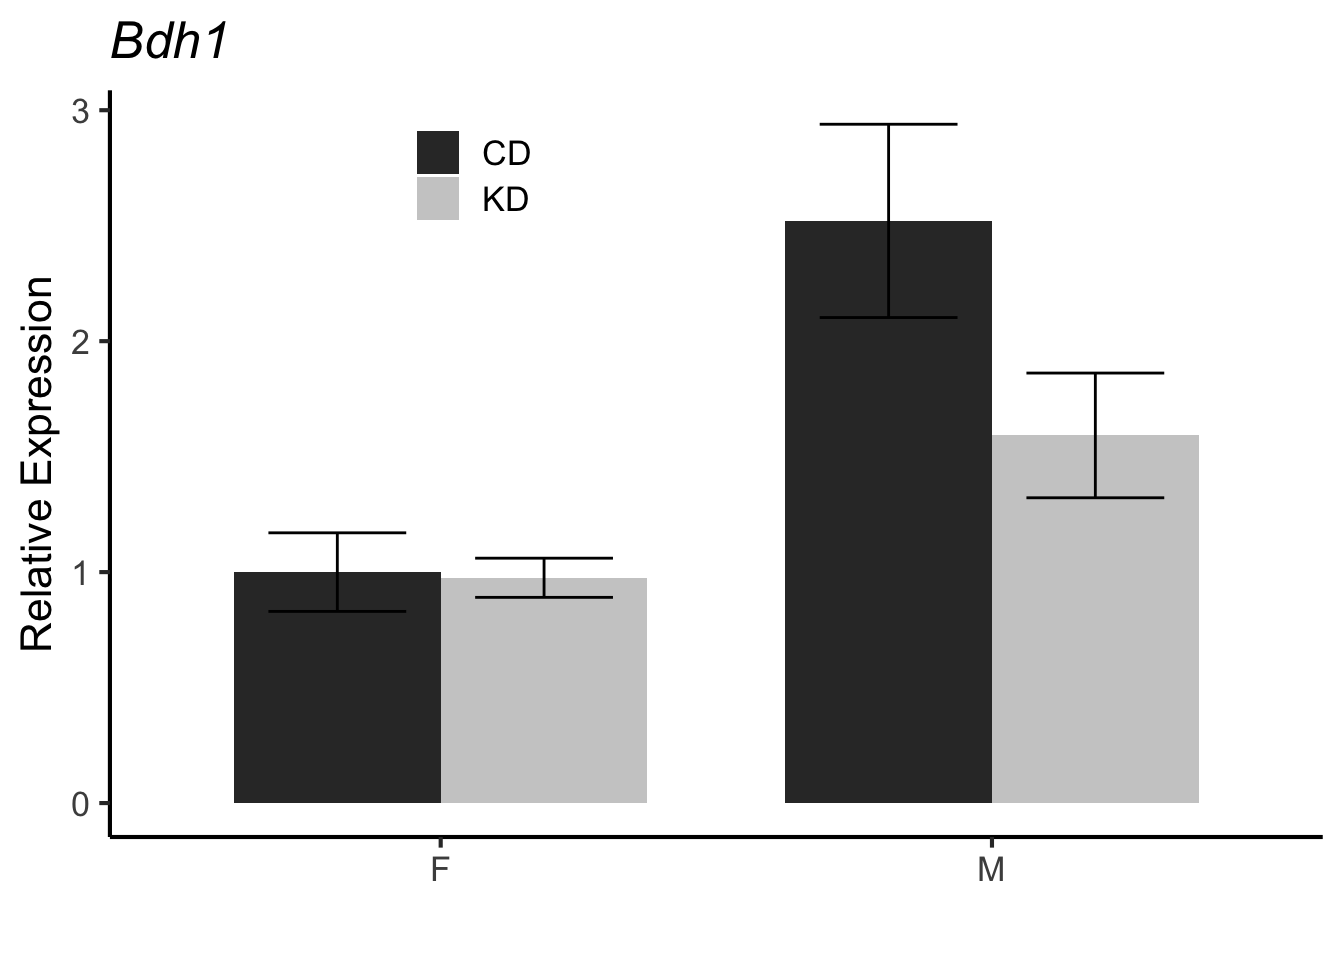
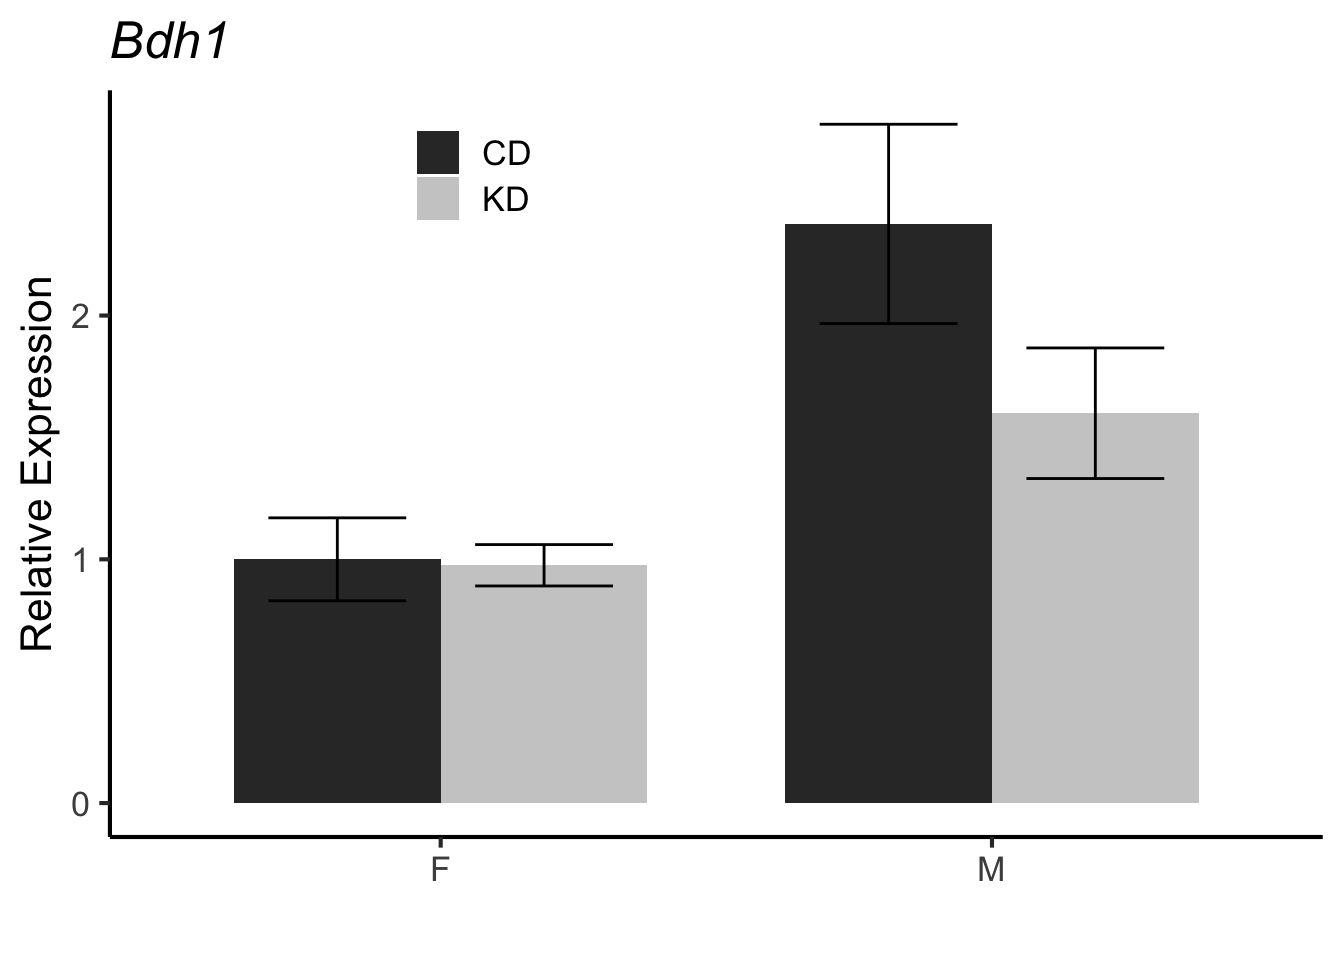
Updated filtering out the outliers

diff --git a/Mouse Data/AJ Ketogenic Diet/Muscle qPCR.html b/Mouse Data/AJ Ketogenic Diet/Muscle qPCR.html
@@ -137,7 +137,7 @@ code span.wa { color: #60a0b0; font-weight: bold; font-style: italic; } /* Warni
 
 </header>
 
-<p>This script was most recently run on Mon Jan 15 19:33:43 2024 and can be found in /Users/davebrid/Documents/GitHub/TissueSpecificTscKnockouts/Mouse Data/AJ Ketogenic Diet.</p>
+<p>This script was most recently run on Mon Jan 15 19:45:09 2024 and can be found in /Users/davebrid/Documents/GitHub/TissueSpecificTscKnockouts/Mouse Data/AJ Ketogenic Diet.</p>
 <section id="purpose" class="level1">
 <h1>Purpose</h1>
 <p>Analyse mRNA expression from AJ Muscles</p>
@@ -165,7 +165,7 @@ code span.wa { color: #60a0b0; font-weight: bold; font-style: italic; } /* Warni
 <span id="cb1-14"><a href="#cb1-14" aria-hidden="true" tabindex="-1"></a>mapped.run.data <span class="ot">&lt;-</span></span>
 <span id="cb1-15"><a href="#cb1-15" aria-hidden="true" tabindex="-1"></a>  run.data <span class="sc">%&gt;%</span></span>
 <span id="cb1-16"><a href="#cb1-16" aria-hidden="true" tabindex="-1"></a>  <span class="fu">left_join</span>(mapping.data, <span class="at">by=</span><span class="st">"Mouse"</span>) <span class="sc">%&gt;%</span></span>
-<span id="cb1-17"><a href="#cb1-17" aria-hidden="true" tabindex="-1"></a>  <span class="fu">select</span>(Mouse,Diet,Cohort,Sex,Target,Cq,Well) <span class="sc">%&gt;%</span></span>
+<span id="cb1-17"><a href="#cb1-17" aria-hidden="true" tabindex="-1"></a>  <span class="fu">select</span>(Mouse,Diet,Cohort,Sex,Target,Cq,<span class="st">`</span><span class="at">Well Position</span><span class="st">`</span>) <span class="sc">%&gt;%</span></span>
 <span id="cb1-18"><a href="#cb1-18" aria-hidden="true" tabindex="-1"></a>  <span class="fu">mutate</span>(<span class="at">Diet =</span> <span class="fu">fct_recode</span>(Diet,<span class="st">"KD"</span><span class="ot">=</span><span class="st">"Ketogenic"</span>,</span>
 <span id="cb1-19"><a href="#cb1-19" aria-hidden="true" tabindex="-1"></a>                          <span class="st">"CD"</span><span class="ot">=</span><span class="st">"Control"</span>))</span></code><button title="Copy to Clipboard" class="code-copy-button"><i class="bi"></i></button></pre></div>
 </div>
@@ -301,8 +301,8 @@ code span.wa { color: #60a0b0; font-weight: bold; font-style: italic; } /* Warni
 </div>
 <div class="sourceCode cell-code" id="cb3"><pre class="sourceCode r code-with-copy"><code class="sourceCode r"><span id="cb3-1"><a href="#cb3-1" aria-hidden="true" tabindex="-1"></a><span class="co">#samples that are technical outliers</span></span>
 <span id="cb3-2"><a href="#cb3-2" aria-hidden="true" tabindex="-1"></a>mapped.run.data <span class="sc">%&gt;%</span></span>
-<span id="cb3-3"><a href="#cb3-3" aria-hidden="true" tabindex="-1"></a>   <span class="fu">filter</span>(Target<span class="sc">==</span><span class="st">"Bdh1"</span>,Mouse<span class="sc">==</span><span class="st">"4108"</span>) <span class="sc">%&gt;%</span></span>
-<span id="cb3-4"><a href="#cb3-4" aria-hidden="true" tabindex="-1"></a>   <span class="fu">select</span>(Target,Mouse,Cq,Well) <span class="sc">%&gt;%</span></span>
+<span id="cb3-3"><a href="#cb3-3" aria-hidden="true" tabindex="-1"></a>   <span class="fu">filter</span>(Target<span class="sc">==</span><span class="st">"Bdh1"</span>,Mouse<span class="sc">==</span><span class="st">"1753"</span>) <span class="sc">%&gt;%</span></span>
+<span id="cb3-4"><a href="#cb3-4" aria-hidden="true" tabindex="-1"></a>   <span class="fu">select</span>(Target,Mouse,Cq,<span class="st">`</span><span class="at">Well Position</span><span class="st">`</span>) <span class="sc">%&gt;%</span></span>
 <span id="cb3-5"><a href="#cb3-5" aria-hidden="true" tabindex="-1"></a>  kable</span></code><button title="Copy to Clipboard" class="code-copy-button"><i class="bi"></i></button></pre></div>
 <div class="cell-output-display">
 <table class="table table-sm table-striped">
@@ -311,94 +311,42 @@ code span.wa { color: #60a0b0; font-weight: bold; font-style: italic; } /* Warni
 <th style="text-align: left;">Target</th>
 <th style="text-align: left;">Mouse</th>
 <th style="text-align: left;">Cq</th>
-<th style="text-align: right;">Well</th>
+<th style="text-align: left;">Well Position</th>
 </tr>
 </thead>
 <tbody>
 <tr class="odd">
 <td style="text-align: left;">Bdh1</td>
-<td style="text-align: left;">4108</td>
-<td style="text-align: left;">28.734764834730484</td>
-<td style="text-align: right;">6</td>
+<td style="text-align: left;">1753</td>
+<td style="text-align: left;">31.77053828853247</td>
+<td style="text-align: left;">A1</td>
 </tr>
 <tr class="even">
 <td style="text-align: left;">Bdh1</td>
-<td style="text-align: left;">4108</td>
-<td style="text-align: left;">28.734764834730484</td>
-<td style="text-align: right;">6</td>
+<td style="text-align: left;">1753</td>
+<td style="text-align: left;">33.43067393781932</td>
+<td style="text-align: left;">A7</td>
 </tr>
 <tr class="odd">
 <td style="text-align: left;">Bdh1</td>
-<td style="text-align: left;">4108</td>
-<td style="text-align: left;">29.10279941135176</td>
-<td style="text-align: right;">12</td>
-</tr>
-<tr class="even">
-<td style="text-align: left;">Bdh1</td>
-<td style="text-align: left;">4108</td>
-<td style="text-align: left;">29.10279941135176</td>
-<td style="text-align: right;">12</td>
-</tr>
-<tr class="odd">
-<td style="text-align: left;">Bdh1</td>
-<td style="text-align: left;">4108</td>
-<td style="text-align: left;">28.92018585386854</td>
-<td style="text-align: right;">18</td>
-</tr>
-<tr class="even">
-<td style="text-align: left;">Bdh1</td>
-<td style="text-align: left;">4108</td>
-<td style="text-align: left;">28.92018585386854</td>
-<td style="text-align: right;">18</td>
-</tr>
-<tr class="odd">
-<td style="text-align: left;">Bdh1</td>
-<td style="text-align: left;">4108</td>
-<td style="text-align: left;">30.068173883007034</td>
-<td style="text-align: right;">99</td>
-</tr>
-<tr class="even">
-<td style="text-align: left;">Bdh1</td>
-<td style="text-align: left;">4108</td>
-<td style="text-align: left;">30.068173883007034</td>
-<td style="text-align: right;">99</td>
-</tr>
-<tr class="odd">
-<td style="text-align: left;">Bdh1</td>
-<td style="text-align: left;">4108</td>
-<td style="text-align: left;">30.77486044399233</td>
-<td style="text-align: right;">105</td>
-</tr>
-<tr class="even">
-<td style="text-align: left;">Bdh1</td>
-<td style="text-align: left;">4108</td>
-<td style="text-align: left;">30.77486044399233</td>
-<td style="text-align: right;">105</td>
-</tr>
-<tr class="odd">
-<td style="text-align: left;">Bdh1</td>
-<td style="text-align: left;">4108</td>
-<td style="text-align: left;">29.958249917786922</td>
-<td style="text-align: right;">111</td>
-</tr>
-<tr class="even">
-<td style="text-align: left;">Bdh1</td>
-<td style="text-align: left;">4108</td>
-<td style="text-align: left;">29.958249917786922</td>
-<td style="text-align: right;">111</td>
+<td style="text-align: left;">1753</td>
+<td style="text-align: left;">31.875779261704572</td>
+<td style="text-align: left;">A13</td>
 </tr>
 </tbody>
 </table>
 </div>
-<div class="sourceCode cell-code" id="cb4"><pre class="sourceCode r code-with-copy"><code class="sourceCode r"><span id="cb4-1"><a href="#cb4-1" aria-hidden="true" tabindex="-1"></a>run.data.clean <span class="ot">&lt;-</span> mapped.run.data</span>
-<span id="cb4-2"><a href="#cb4-2" aria-hidden="true" tabindex="-1"></a></span>
-<span id="cb4-3"><a href="#cb4-3" aria-hidden="true" tabindex="-1"></a>qpcr.data <span class="ot">&lt;-</span></span>
-<span id="cb4-4"><a href="#cb4-4" aria-hidden="true" tabindex="-1"></a>  run.data.clean <span class="sc">%&gt;%</span></span>
-<span id="cb4-5"><a href="#cb4-5" aria-hidden="true" tabindex="-1"></a>  <span class="fu">select</span>(Diet,Cohort,Sex,Mouse,Target,Cq) <span class="sc">%&gt;%</span></span>
-<span id="cb4-6"><a href="#cb4-6" aria-hidden="true" tabindex="-1"></a>  <span class="fu">mutate</span>(<span class="at">Cq=</span><span class="fu">as.numeric</span>(Cq)) <span class="sc">%&gt;%</span></span>
-<span id="cb4-7"><a href="#cb4-7" aria-hidden="true" tabindex="-1"></a>  <span class="fu">group_by</span>(Diet,Cohort,Sex,Mouse,Target) <span class="sc">%&gt;%</span></span>
-<span id="cb4-8"><a href="#cb4-8" aria-hidden="true" tabindex="-1"></a>  <span class="fu">summarize</span>(<span class="at">Ct.mean =</span> <span class="fu">mean</span>(Cq,<span class="at">na.rm=</span>T),</span>
-<span id="cb4-9"><a href="#cb4-9" aria-hidden="true" tabindex="-1"></a>            <span class="at">Ct.range =</span> <span class="fu">max</span>(Cq,<span class="at">na.rm=</span>T)<span class="sc">-</span><span class="fu">min</span>(Cq,<span class="at">na.rm=</span>T))</span></code><button title="Copy to Clipboard" class="code-copy-button"><i class="bi"></i></button></pre></div>
+<div class="sourceCode cell-code" id="cb4"><pre class="sourceCode r code-with-copy"><code class="sourceCode r"><span id="cb4-1"><a href="#cb4-1" aria-hidden="true" tabindex="-1"></a>run.data.clean <span class="ot">&lt;-</span> mapped.run.data <span class="sc">%&gt;%</span></span>
+<span id="cb4-2"><a href="#cb4-2" aria-hidden="true" tabindex="-1"></a>  <span class="fu">filter</span>(<span class="sc">!</span>(Target<span class="sc">==</span><span class="st">"Bdh1"</span><span class="sc">&amp;</span><span class="st">`</span><span class="at">Well Position</span><span class="st">`</span><span class="sc">==</span><span class="st">"E13"</span>)) <span class="sc">%&gt;%</span></span>
+<span id="cb4-3"><a href="#cb4-3" aria-hidden="true" tabindex="-1"></a>  <span class="fu">filter</span>(<span class="sc">!</span>(Target<span class="sc">==</span><span class="st">"Bdh1"</span><span class="sc">&amp;</span><span class="st">`</span><span class="at">Well Position</span><span class="st">`</span><span class="sc">==</span><span class="st">"A7"</span>))</span>
+<span id="cb4-4"><a href="#cb4-4" aria-hidden="true" tabindex="-1"></a></span>
+<span id="cb4-5"><a href="#cb4-5" aria-hidden="true" tabindex="-1"></a>qpcr.data <span class="ot">&lt;-</span></span>
+<span id="cb4-6"><a href="#cb4-6" aria-hidden="true" tabindex="-1"></a>  run.data.clean <span class="sc">%&gt;%</span></span>
+<span id="cb4-7"><a href="#cb4-7" aria-hidden="true" tabindex="-1"></a>  <span class="fu">select</span>(Diet,Cohort,Sex,Mouse,Target,Cq) <span class="sc">%&gt;%</span></span>
+<span id="cb4-8"><a href="#cb4-8" aria-hidden="true" tabindex="-1"></a>  <span class="fu">mutate</span>(<span class="at">Cq=</span><span class="fu">as.numeric</span>(Cq)) <span class="sc">%&gt;%</span></span>
+<span id="cb4-9"><a href="#cb4-9" aria-hidden="true" tabindex="-1"></a>  <span class="fu">group_by</span>(Diet,Cohort,Sex,Mouse,Target) <span class="sc">%&gt;%</span></span>
+<span id="cb4-10"><a href="#cb4-10" aria-hidden="true" tabindex="-1"></a>  <span class="fu">summarize</span>(<span class="at">Ct.mean =</span> <span class="fu">mean</span>(Cq,<span class="at">na.rm=</span>T),</span>
+<span id="cb4-11"><a href="#cb4-11" aria-hidden="true" tabindex="-1"></a>            <span class="at">Ct.range =</span> <span class="fu">max</span>(Cq,<span class="at">na.rm=</span>T)<span class="sc">-</span><span class="fu">min</span>(Cq,<span class="at">na.rm=</span>T))</span></code><button title="Copy to Clipboard" class="code-copy-button"><i class="bi"></i></button></pre></div>
 </div>
 </section>
 <section id="normalization" class="level1">
@@ -447,15 +395,6 @@ code span.wa { color: #60a0b0; font-weight: bold; font-style: italic; } /* Warni
 </thead>
 <tbody>
 <tr class="odd">
-<td style="text-align: left;">CD</td>
-<td style="text-align: right;">2</td>
-<td style="text-align: left;">M</td>
-<td style="text-align: left;">1750</td>
-<td style="text-align: left;">Bdh1</td>
-<td style="text-align: right;">27.3</td>
-<td style="text-align: right;">2.80</td>
-</tr>
-<tr class="even">
 <td style="text-align: left;">KD</td>
 <td style="text-align: right;">1</td>
 <td style="text-align: left;">F</td>
@@ -464,7 +403,7 @@ code span.wa { color: #60a0b0; font-weight: bold; font-style: italic; } /* Warni
 <td style="text-align: right;">26.7</td>
 <td style="text-align: right;">2.09</td>
 </tr>
-<tr class="odd">
+<tr class="even">
 <td style="text-align: left;">CD</td>
 <td style="text-align: right;">1</td>
 <td style="text-align: left;">F</td>
@@ -473,7 +412,7 @@ code span.wa { color: #60a0b0; font-weight: bold; font-style: italic; } /* Warni
 <td style="text-align: right;">29.6</td>
 <td style="text-align: right;">2.04</td>
 </tr>
-<tr class="even">
+<tr class="odd">
 <td style="text-align: left;">CD</td>
 <td style="text-align: right;">1</td>
 <td style="text-align: left;">F</td>
@@ -482,7 +421,7 @@ code span.wa { color: #60a0b0; font-weight: bold; font-style: italic; } /* Warni
 <td style="text-align: right;">23.2</td>
 <td style="text-align: right;">1.87</td>
 </tr>
-<tr class="odd">
+<tr class="even">
 <td style="text-align: left;">CD</td>
 <td style="text-align: right;">1</td>
 <td style="text-align: left;">F</td>
@@ -491,7 +430,7 @@ code span.wa { color: #60a0b0; font-weight: bold; font-style: italic; } /* Warni
 <td style="text-align: right;">26.9</td>
 <td style="text-align: right;">1.59</td>
 </tr>
-<tr class="even">
+<tr class="odd">
 <td style="text-align: left;">CD</td>
 <td style="text-align: right;">1</td>
 <td style="text-align: left;">F</td>
@@ -833,13 +772,13 @@ code span.wa { color: #60a0b0; font-weight: bold; font-style: italic; } /* Warni
 <span id="cb16-5"><a href="#cb16-5" aria-hidden="true" tabindex="-1"></a>temp.result <span class="ot">&lt;-</span> <span class="fu">lm</span>(Ct.quant <span class="sc">~</span> Diet<span class="sc">*</span>Sex,<span class="at">data=</span><span class="fu">filter</span>(analysed.data, Target<span class="sc">==</span>gene)) <span class="sc">%&gt;%</span> </span>
 <span id="cb16-6"><a href="#cb16-6" aria-hidden="true" tabindex="-1"></a>  tidy <span class="sc">%&gt;%</span> </span>
 <span id="cb16-7"><a href="#cb16-7" aria-hidden="true" tabindex="-1"></a>  <span class="fu">mutate</span>(<span class="at">Gene=</span>gene) <span class="sc">%&gt;%</span> </span>
-<span id="cb16-8"><a href="#cb16-8" aria-hidden="true" tabindex="-1"></a>  <span class="fu">filter</span>(term<span class="sc">==</span><span class="st">"DietKetogenic:SexM"</span>)</span>
+<span id="cb16-8"><a href="#cb16-8" aria-hidden="true" tabindex="-1"></a>  <span class="fu">filter</span>(term<span class="sc">==</span><span class="st">"DietKD:SexM"</span>)</span>
 <span id="cb16-9"><a href="#cb16-9" aria-hidden="true" tabindex="-1"></a>interaction.results <span class="ot">&lt;-</span> <span class="fu">bind_rows</span>(interaction.results,temp.result)</span>
 <span id="cb16-10"><a href="#cb16-10" aria-hidden="true" tabindex="-1"></a>}</span>
 <span id="cb16-11"><a href="#cb16-11" aria-hidden="true" tabindex="-1"></a></span>
 <span id="cb16-12"><a href="#cb16-12" aria-hidden="true" tabindex="-1"></a><span class="fu">kable</span>(interaction.results,<span class="at">caption=</span><span class="st">"Test for Diet-Sex Interactions"</span>)</span></code><button title="Copy to Clipboard" class="code-copy-button"><i class="bi"></i></button></pre></div>
 <div class="cell-output-display">
-<table>
+<table class="table table-sm table-striped">
 <caption>Test for Diet-Sex Interactions</caption>
 <thead>
 <tr class="header">
@@ -852,6 +791,30 @@ code span.wa { color: #60a0b0; font-weight: bold; font-style: italic; } /* Warni
 </tr>
 </thead>
 <tbody>
+<tr class="odd">
+<td style="text-align: left;">DietKD:SexM</td>
+<td style="text-align: right;">-0.012</td>
+<td style="text-align: right;">0.011</td>
+<td style="text-align: right;">-1.080</td>
+<td style="text-align: right;">0.287</td>
+<td style="text-align: left;">Bdh1</td>
+</tr>
+<tr class="even">
+<td style="text-align: left;">DietKD:SexM</td>
+<td style="text-align: right;">-0.030</td>
+<td style="text-align: right;">0.018</td>
+<td style="text-align: right;">-1.671</td>
+<td style="text-align: right;">0.103</td>
+<td style="text-align: left;">Oxct1</td>
+</tr>
+<tr class="odd">
+<td style="text-align: left;">DietKD:SexM</td>
+<td style="text-align: right;">-0.020</td>
+<td style="text-align: right;">0.032</td>
+<td style="text-align: right;">-0.625</td>
+<td style="text-align: right;">0.536</td>
+<td style="text-align: left;">Slc16a1</td>
+</tr>
 </tbody>
 </table>
 </div>
@@ -893,26 +856,26 @@ code span.wa { color: #60a0b0; font-weight: bold; font-style: italic; } /* Warni
 <td style="text-align: left;">(Intercept)</td>
 <td style="text-align: right;">0.020</td>
 <td style="text-align: right;">0.005</td>
-<td style="text-align: right;">0.000</td>
+<td style="text-align: right;">0.001</td>
 <td style="text-align: right;">100.0</td>
 <td style="text-align: left;"></td>
 </tr>
 <tr class="even">
 <td style="text-align: left;">Bdh1</td>
 <td style="text-align: left;">DietKD</td>
-<td style="text-align: right;">-0.010</td>
+<td style="text-align: right;">-0.008</td>
 <td style="text-align: right;">0.005</td>
-<td style="text-align: right;">0.065</td>
-<td style="text-align: right;">-47.7</td>
+<td style="text-align: right;">0.113</td>
+<td style="text-align: right;">-41.7</td>
 <td style="text-align: left;"></td>
 </tr>
 <tr class="odd">
 <td style="text-align: left;">Bdh1</td>
 <td style="text-align: left;">SexM</td>
-<td style="text-align: right;">0.016</td>
+<td style="text-align: right;">0.015</td>
 <td style="text-align: right;">0.005</td>
-<td style="text-align: right;">0.007</td>
-<td style="text-align: right;">76.3</td>
+<td style="text-align: right;">0.009</td>
+<td style="text-align: right;">74.9</td>
 <td style="text-align: left;">*</td>
 </tr>
 <tr class="even">
@@ -1035,12 +998,12 @@ code span.wa { color: #60a0b0; font-weight: bold; font-style: italic; } /* Warni
 <tr class="even">
 <td style="text-align: left;">Bdh1</td>
 <td style="text-align: left;">M</td>
-<td style="text-align: right;">36.85</td>
-<td style="text-align: right;">0.008</td>
-<td style="text-align: right;">0.441</td>
-<td style="text-align: right;">0.100</td>
-<td style="text-align: right;">0.078</td>
-<td style="text-align: right;">0.061</td>
+<td style="text-align: right;">32.69</td>
+<td style="text-align: right;">0.005</td>
+<td style="text-align: right;">0.317</td>
+<td style="text-align: right;">0.161</td>
+<td style="text-align: right;">0.129</td>
+<td style="text-align: right;">0.109</td>
 <td style="text-align: left;">Mann Whitney</td>
 </tr>
 <tr class="odd">
